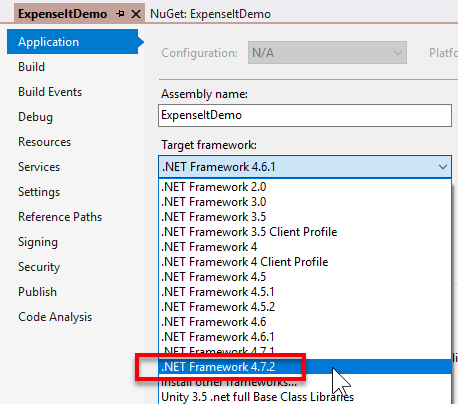
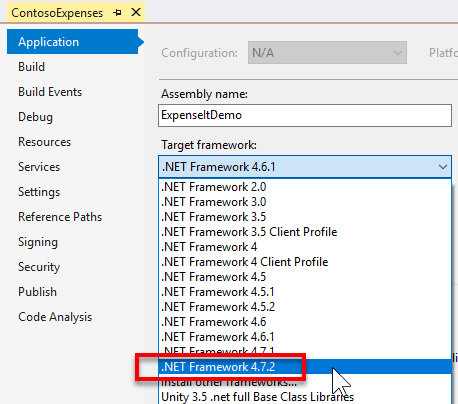
Update images and typo

Changed region(s): [[0.0, 0.0, 0.6114, 0.0594]]

diff --git a/Manual/README.md b/Manual/README.md
@@ -64,7 +64,7 @@ The goal of this project, in fact, is to help you focusing on understanding and 
 **Please note**. The following information is provided in case you're planning to follow this lab on your own or from home. If you are following this lab as part of a live training class, feel free to skip it and jump directly to the beginning of the first exercise. These concepts, in fact, should have already be explained by the trainers of the lab before starting the practical exercises.
 
 #### Universal Windows Platform
-Starting from Windows 8, Microsoft has introduced a new kind of applications: Windows Store apps, based on a new framework called Windows Runtime. Unlike the .NET Framework, the Windows Runtime is a native layer of APIs which are exposed directly by the operating system to applications which want to consume them. With the goal to make the platform viable for every developer and to not force them to learn C++, the Windows Runtime has introduced language projections, which are layers added on top of the runtime to allow developers to interact with it using well-known and familiar languages. Thanks to projections, developers can build applications on top of the Windows Runtime leveraging the same C# and XAML knowledge they have acquired in building apps with the .NET Framework. The Windows Runtime libraries (called Windows Runtime Components) are described using special metadata files, which make it possible for developers to access the APIs using the specific syntax of the language they’re using. This way, projections can also respect the language conventions and types, like uppercase if you use C# or camel case if you use JavaScript. Additionally, Windows Runtime components can be used across multiple languages: for example, a Windows Runtime component written in C++ can be used by an application developed in C# and XAML.
+Starting from Windows 8, Microsoft has introduced a new kind of applications: Windows Store apps, based on a new framework called Windows Runtime. Unlike the .NET Framework, the Windows Runtime is a native layer of APIs which are exposed directly by the operating system to applications which want to consume them. With the goal to make the platform viable for every developer and to not force them to learn C\+\+, the Windows Runtime has introduced language projections, which are layers added on top of the runtime to allow developers to interact with it using well-known and familiar languages. Thanks to projections, developers can build applications on top of the Windows Runtime leveraging the same C# and XAML knowledge they have acquired in building apps with the .NET Framework. The Windows Runtime libraries (called Windows Runtime Components) are described using special metadata files, which make it possible for developers to access the APIs using the specific syntax of the language they’re using. This way, projections can also respect the language conventions and types, like uppercase if you use C# or camel case if you use JavaScript. Additionally, Windows Runtime components can be used across multiple languages: for example, a Windows Runtime component written in C++ can be used by an application developed in C# and XAML.
 With the release of Windows 10, Microsoft has introduced the Universal Windows Platform, which can be considered the successor of the Windows Runtime since it’s built on top of the same technology. The most important feature of the Universal Windows Platform is that it offers a common set of APIs across every platform: no matter if the app is running on a desktop, on a Xbox One or on a HoloLens, you’re able to use the same APIs to reach the same goals. This is a major step forward compared to the Windows Runtime, which didn’t provide this kind of cross-device support. You were able to share code and UI between a PC project and a mobile project, but, in the end, developers needed anyway to create, maintain and deploy two different solutions.
 
 The Universal Windows Platform has been built with security and privacy in mind. As such, Universal Windows Platform applications run inside a sandbox; they don’t have access to the registry; they can freely read and write data only in a specific local folder; etc. Any operation which is potentially dangerous requires the declaration of a capability and the consent of the user: some examples are accessing to the files in the Pictures library; using the microphone or the webcam; retrieving the location of the user; etc. Everything is controlled by a manifest file, which is an XML file that describes the identity of the application: its unique identifier, its capabilities, its visual aspect, its integration with the Windows 10 ecosystem, etc.
